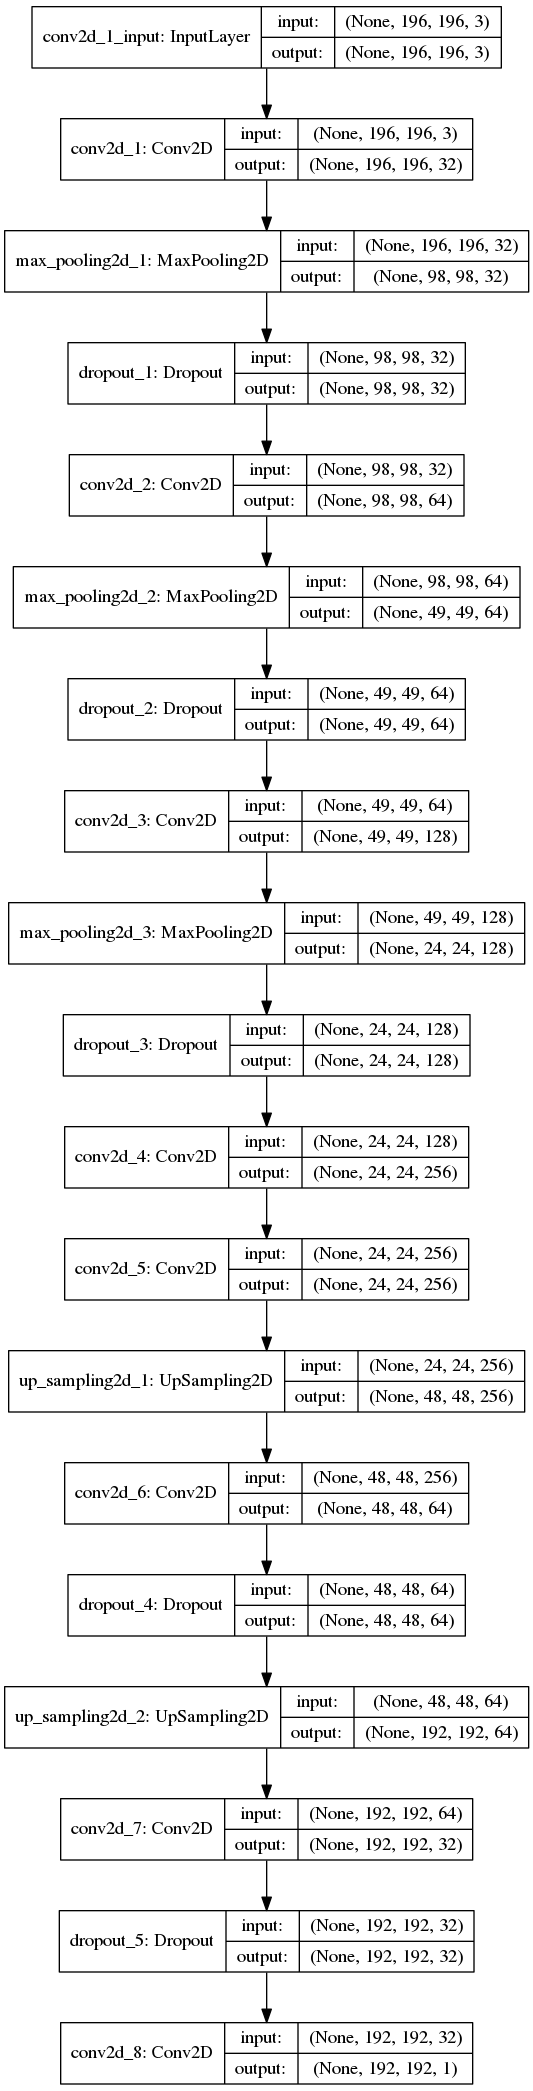
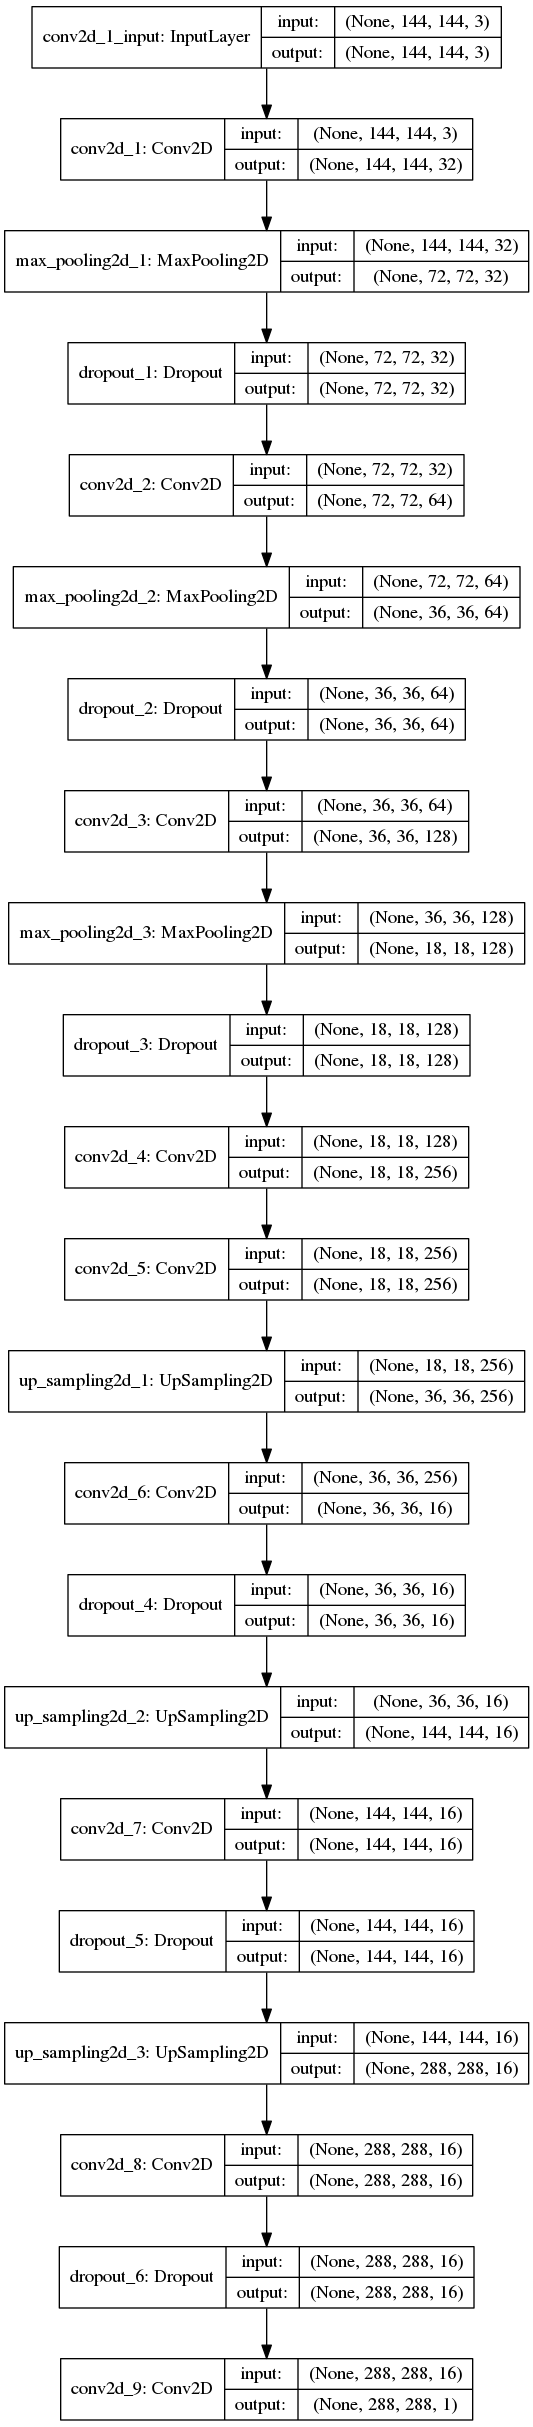
New structure, wider output
Former-commit-id: 00882c2adfa2ce3f0ba863ed13157ff53a0a75ca
Former-commit-id: 57f6e7174d8d52d623638bebffe99ac3a9e891db
Former-commit-id: 980696a807dc15cc0f5a8be8a92cd23f480fdcbf
Former-commit-id: 16e3bb37285f0451c7a2583a010c30537b80055d

diff --git a/deconv_line/net.py b/deconv_line/net.py
@@ -11,8 +11,8 @@ import cv2
 
 K.set_image_data_format('channels_last')  # TF dimension ordering in this code
 
-nn_img_side = 196
-nn_out_size = 192
+nn_img_side = 144
+nn_out_size = 288
 
 ### Rates ###
 # 27.5 ms - processing time gpu
@@ -83,16 +83,16 @@ def get_unet():
 	# model.add(Conv2D(512, (3, 3), activation='relu', padding='same'))
 
 	model.add(UpSampling2D(size=(2, 2)))
-	model.add(Conv2D(64, (2, 2), activation='relu', padding='same'))
+	model.add(Conv2D(16, (2, 2), activation='relu', padding='same'))
 	model.add(Dropout(0.25))
 
 	model.add(UpSampling2D(size=(4, 4)))
-	model.add(Conv2D(32, (3, 3), activation='relu', padding='same'))
+	model.add(Conv2D(16, (3, 3), activation='relu', padding='same'))
 	model.add(Dropout(0.25))
 
-	# model.add(UpSampling2D(size=(2, 2)))
-	# model.add(Conv2D(32, (3, 3), activation='relu', padding='same'))
-	# model.add(Dropout(0.25))
+	model.add(UpSampling2D(size=(2, 2)))
+	model.add(Conv2D(16, (3, 3), activation='relu', padding='same'))
+	model.add(Dropout(0.25))
 
 	# model.add(UpSampling2D(size=(2, 2)))
 	# model.add(Conv2D(16, (3, 3), activation='relu', padding='same'))
